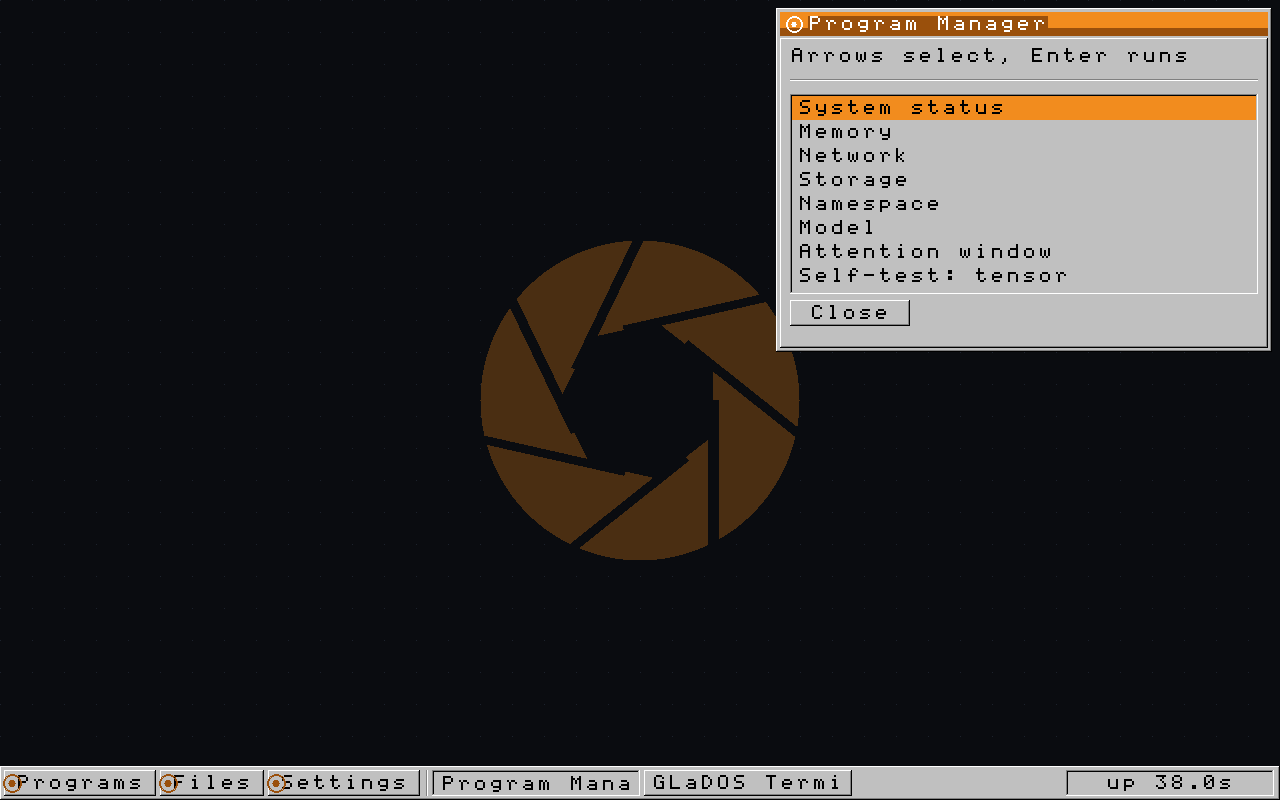
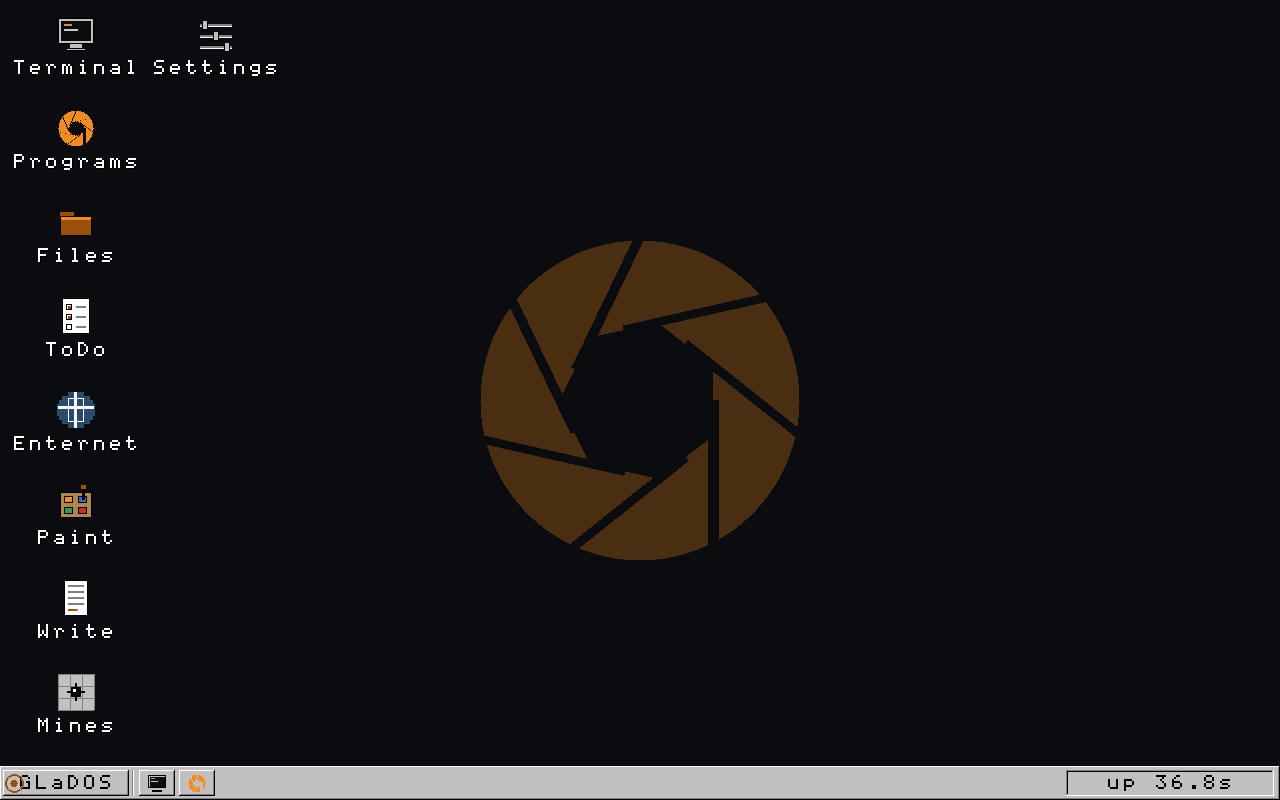
site: screenshots catch up with the desktop
The three captures on the front page and the gallery predate icons, the
Start button, caption buttons, the icon taskbar and the programs, so
they showed a machine that no longer exists. Retaken from the current
build, through the emulator's monitor as always:

  desktop.png        the boot state -- terminal, Program Manager, wall
                     icons, Start, pictogram task buttons
  apps.png (new)     Minesweeper, Write and Paintbrush in overlapping
                     windows, arranged by the window manager itself over
                     a serial port
  desktop-clean.png  everything minimised; the shell keeps answering
                     with no window at all

Captions updated to say what is now true, in the site's own register --
and with the em dashes that tried to sneak in via — escapes caught
before they landed, since "no em dashes" was the rule that built this
site's voice in the first place.

diff --git a/docs/screenshots/index.html b/docs/screenshots/index.html
@@ -48,8 +48,9 @@
 <div id="main">
 <h1>GLaDOS OS screenshots</h1>
 <p>Captured from the running system under QEMU, through the emulator's monitor and not with a camera pointed at a screen, so these are the framebuffer's exact contents at 1280x800.</p>
-<div class="shot"><img src="../img/desktop.png" alt="GLaDOS OS desktop showing a Windows 3.1 styled terminal window with the boot log, a Program Manager window, and a taskbar" width="1280" height="800" loading="lazy" decoding="async"><div class="cap"><b>Desktop with terminal and Program Manager.</b> The desktop as it comes up. The terminal is showing its own boot log, with Program Manager beside it and a taskbar along the bottom. Every pixel here was drawn by the kernel into a UEFI framebuffer; there is no graphics library underneath.</div></div>
-<div class="shot"><img src="../img/desktop-clean.png" alt="The GLaDOS desktop wallpaper showing the aperture mark drawn as vector geometry" width="1280" height="800" loading="lazy" decoding="async"><div class="cap"><b>Desktop wallpaper.</b> The same desktop with the terminal minimised. The mark on the wallpaper is computed as arcs and lines at boot, because the kernel has no image decoder and adding one to display a logo seemed like the wrong order to do things in.</div></div>
+<div class="shot"><img src="../img/desktop.png" alt="GLaDOS OS desktop showing a 98-styled terminal window with the boot log, desktop icons, a Program Manager window, and an icon taskbar with a Start button" width="1280" height="800" loading="lazy" decoding="async"><div class="cap"><b>Desktop with terminal and Program Manager.</b> The desktop as it comes up. The terminal is showing its own boot log, with Program Manager beside it, icons down the wall, and a taskbar carrying a Start button and one pictogram per window. Title bars ramp through Aperture's colours and carry minimise, maximise and close. Every pixel here was drawn by the kernel into a UEFI framebuffer; there is no graphics library underneath.</div></div>
+<div class="shot"><img src="../img/apps.png" alt="GLaDOS desktop with Minesweeper, a text editor and a paint program in overlapping windows" width="1280" height="800" loading="lazy" decoding="async"><div class="cap"><b>Paintbrush, Write and Minesweeper.</b> Three programs at once. Minesweeper plays the 3.1 rules with the mark for a face; Write is a windowed editor over the same content-addressed namespace the shell's <code>edit</code> uses; Paintbrush is behind it with five tools and the console's sixteen colours. Windows drag by their title bars, and everything also drives from the keyboard, which is how this screenshot arranged itself, headlessly, over a serial port.</div></div>
+<div class="shot"><img src="../img/desktop-clean.png" alt="The GLaDOS desktop wallpaper showing the aperture mark drawn as vector geometry" width="1280" height="800" loading="lazy" decoding="async"><div class="cap"><b>Desktop wallpaper.</b> Everything minimised to the bar. The mark on the wallpaper is computed as arcs and lines at boot, because the kernel has no image decoder and adding one to display a logo seemed like the wrong order to do things in. The shell keeps running with no window at all; typing still types at the prompt.</div></div>
 <div class="shot"><img src="../img/model.png" alt="GLaDOS running a language model in kernel space, answering a question about operating systems" width="1280" height="800" loading="lazy" decoding="async"><div class="cap"><b>The model answering.</b> The resident model answering <em>what is an operating system</em>. The forward pass is running in the same address space as the code that drew the window it is printing into.</div></div>
 <div class="shot"><img src="../img/mouse.png" alt="The GLaDOS desktop with a mouse cursor and the Program Manager system status list open" width="1280" height="800" loading="lazy" decoding="async"><div class="cap"><b>A pointer, and the system status menu.</b> PS/2 mouse support, with the cursor drawn and undrawn by saving and restoring the pixels underneath it. The second button opens the menu under the pointer. Behind it the boot log records the model's shape: 576-dimensional, 30 layers, nine query heads to three key/value heads, and 134,515,008 parameters in 132,402 KiB of int8 weights.</div></div>
 <div class="shot"><img src="../img/enternet.png" alt="A small web browser window in GLaDOS displaying example.com, fetched over the kernel&#x27;s own TLS 1.3 connection" width="1280" height="800" loading="lazy" decoding="async"><div class="cap"><b>Enternet, fetching a page.</b> Enternet, the browser. It has fetched <code>example.com</code> over a TLS 1.3 connection this kernel negotiated itself, parsed the HTML and the CSS, and laid the result out in a window. The status line counts what it found: three blocks and one link.</div></div>

diff --git a/docs/index.html b/docs/index.html
@@ -51,8 +51,9 @@
 <p>That arrangement deletes most of the machinery an AI agent usually needs. There is no userspace to marshal arguments into, no wire format, no dispatcher and no process boundary to cross. When the model decides to run <code>ls</code>, the kernel calls <code>ls</code>, and the call costs what any other function call costs.</p>
 <p>The name comes from <em>Portal</em>, and so does the look: amber on black, a boot screen drawn as vector geometry, Windows 3.1 chrome, and a certain institutional cheerfulness on the subject of hazards. What is underneath the paint is ordinary systems work. The TCP/IP stack, the TLS 1.3 client, the NVMe and xHCI drivers, the window manager and the inference code were all written for this project, which comes to 89 files of Rust and about 36,000 lines.</p>
 <ul><li><a href="download/">Download the ISO</a>: Bootable UEFI images with the model baked in. 33 MB to 575 MB.</li><li><a href="wiki/">Read the wiki</a>: Every subsystem, how it works, and what it cost to find out.</li><li><a href="screenshots/">See it running</a>: The desktop, the shell, and the model answering from ring 0.</li><li><a href="archive/">Browse the archive</a>: Mirror-style file index of images, sources and checksums.</li><li><a href="https://github.com/IlumCI/GLaDOS">Source on GitHub</a>: 89 files of Rust. All rights reserved, published to be read.</li></ul>
-<div class="shot"><img src="img/desktop.png" alt="GLaDOS OS desktop showing a Windows 3.1 styled terminal window with the boot log, a Program Manager window, and a taskbar" width="1280" height="800" loading="lazy" decoding="async"><div class="cap"><b>Desktop with terminal and Program Manager.</b> The desktop as it comes up, with the terminal showing its own boot log, Program Manager beside it and a taskbar along the bottom. Every pixel here was drawn by the kernel into a UEFI framebuffer, with no graphics library underneath.</div></div>
-<div class="shot"><img src="img/desktop-clean.png" alt="The GLaDOS desktop wallpaper showing the aperture mark drawn as vector geometry" width="1280" height="800" loading="lazy" decoding="async"><div class="cap"><b>Desktop wallpaper.</b> The same desktop with the terminal minimised. The mark is computed as arcs and lines at boot, since the kernel has no image decoder and writing one in order to display a logo seemed like the wrong order to do things in.</div></div>
+<div class="shot"><img src="img/desktop.png" alt="GLaDOS OS desktop showing a 98-styled terminal window with the boot log, desktop icons, a Program Manager window, and an icon taskbar with a Start button" width="1280" height="800" loading="lazy" decoding="async"><div class="cap"><b>Desktop with terminal and Program Manager.</b> The desktop as it comes up: the terminal showing its own boot log, Program Manager beside it, icons down the wall, and a taskbar with a Start button and one pictogram per window. The look is 98 furniture on 3.1 construction in Aperture colours, and every pixel was drawn by the kernel into a UEFI framebuffer with no graphics library underneath.</div></div>
+<div class="shot"><img src="img/apps.png" alt="GLaDOS desktop with Minesweeper, a text editor and a paint program in overlapping windows" width="1280" height="800" loading="lazy" decoding="async"><div class="cap"><b>Paintbrush, Write and Minesweeper.</b> Three programs at once: Minesweeper with its counters and the mark for a face, Write holding a document from the content-addressed namespace, Paintbrush behind it. Windows drag by their title bars, carry minimise, maximise and close buttons, and everything here can also be driven entirely from the keyboard, which is how this screenshot arranged itself.</div></div>
+<div class="shot"><img src="img/desktop-clean.png" alt="The GLaDOS desktop wallpaper showing the aperture mark drawn as vector geometry" width="1280" height="800" loading="lazy" decoding="async"><div class="cap"><b>Desktop wallpaper.</b> Everything minimised to the bar. The mark is computed as arcs and lines at boot, since the kernel has no image decoder and writing one in order to display a logo seemed like the wrong order to do things in. The shell keeps running with no window at all.</div></div>
 <div class="shot"><img src="img/model.png" alt="GLaDOS running a language model in kernel space, answering a question about operating systems" width="1280" height="800" loading="lazy" decoding="async"><div class="cap"><b>The model answering.</b> The resident model answering <em>what is an operating system</em>. The forward pass is running in the same address space as the code that drew the window it is printing into.</div></div>
 <h2 id="what-works">What works</h2>
 <p>This is a research kernel, so a feature list is only useful with the gaps marked. Both halves are below.</p>

diff --git a/tools/mksite.py b/tools/mksite.py
@@ -132,20 +132,32 @@ page(
         ]),
         ("shots", [
             ("desktop.png", "Desktop with terminal and Program Manager",
-             "GLaDOS OS desktop showing a Windows 3.1 styled terminal window with "
-             "the boot log, a Program Manager window, and a taskbar",
-             "The desktop as it comes up, with the terminal showing its own boot "
-             "log, Program Manager beside it and a taskbar along the bottom. Every "
-             "pixel here was drawn by the kernel into a UEFI framebuffer, with no "
-             "graphics library underneath.",
+             "GLaDOS OS desktop showing a 98-styled terminal window with the boot "
+             "log, desktop icons, a Program Manager window, and an icon taskbar "
+             "with a Start button",
+             "The desktop as it comes up: the terminal showing its own boot log, "
+             "Program Manager beside it, icons down the wall, and a taskbar with a "
+             "Start button and one pictogram per window. The look is 98 furniture "
+             "on 3.1 construction in Aperture colours, and every pixel was drawn "
+             "by the kernel into a UEFI framebuffer with no graphics library "
+             "underneath.",
              True),
+            ("apps.png", "Paintbrush, Write and Minesweeper",
+             "GLaDOS desktop with Minesweeper, a text editor and a paint program "
+             "in overlapping windows",
+             "Three programs at once: Minesweeper with its counters and the mark "
+             "for a face, Write holding a document from the content-addressed "
+             "namespace, Paintbrush behind it. Windows drag by their title bars, "
+             "carry minimise, maximise and close buttons, and everything here can "
+             "also be driven entirely from the keyboard, which is how this "
+             "screenshot arranged itself.", False),
             ("desktop-clean.png", "Desktop wallpaper",
              "The GLaDOS desktop wallpaper showing the aperture mark drawn as "
              "vector geometry",
-             "The same desktop with the terminal minimised. The mark is computed as "
-             "arcs and lines at boot, since the kernel has no image decoder and "
-             "writing one in order to display a logo seemed like the wrong order to "
-             "do things in.", False),
+             "Everything minimised to the bar. The mark is computed as arcs and "
+             "lines at boot, since the kernel has no image decoder and writing one "
+             "in order to display a logo seemed like the wrong order to do things "
+             "in. The shell keeps running with no window at all.", False),
             ("model.png", "The model answering",
              "GLaDOS running a language model in kernel space, answering a question "
              "about operating systems",
@@ -2387,20 +2399,34 @@ page(
           "framebuffer's exact contents at 1280x800."),
         ("shots", [
             ("desktop.png", "Desktop with terminal and Program Manager",
-             "GLaDOS OS desktop showing a Windows 3.1 styled terminal window with "
-             "the boot log, a Program Manager window, and a taskbar",
-             "The desktop as it comes up. The terminal is showing its own boot log, "
-             "with Program Manager beside it and a taskbar along the bottom. Every "
-             "pixel here was drawn by the kernel into a UEFI framebuffer; there is "
-             "no graphics library underneath.",
+             "GLaDOS OS desktop showing a 98-styled terminal window with the boot "
+             "log, desktop icons, a Program Manager window, and an icon taskbar "
+             "with a Start button",
+             "The desktop as it comes up. The terminal is showing its own boot "
+             "log, with Program Manager beside it, icons down the wall, and a "
+             "taskbar carrying a Start button and one pictogram per window. Title "
+             "bars ramp through Aperture's colours and carry minimise, maximise "
+             "and close. Every pixel here was drawn by the kernel into a UEFI "
+             "framebuffer; there is no graphics library underneath.",
              True),
+            ("apps.png", "Paintbrush, Write and Minesweeper",
+             "GLaDOS desktop with Minesweeper, a text editor and a paint program "
+             "in overlapping windows",
+             "Three programs at once. Minesweeper plays the 3.1 rules with the "
+             "mark for a face; Write is a windowed editor over the same "
+             "content-addressed namespace the shell's <code>edit</code> uses; "
+             "Paintbrush is behind it with five tools and the console's sixteen "
+             "colours. Windows drag by their title bars, and everything also "
+             "drives from the keyboard, which is how this screenshot "
+             "arranged itself, headlessly, over a serial port.", False),
             ("desktop-clean.png", "Desktop wallpaper",
              "The GLaDOS desktop wallpaper showing the aperture mark drawn as "
              "vector geometry",
-             "The same desktop with the terminal minimised. The mark on the "
+             "Everything minimised to the bar. The mark on the "
              "wallpaper is computed as arcs and lines at boot, because the kernel "
              "has no image decoder and adding one to display a logo seemed like the "
-             "wrong order to do things in.", False),
+             "wrong order to do things in. The shell keeps running with no window "
+             "at all; typing still types at the prompt.", False),
             ("model.png", "The model answering",
              "GLaDOS running a language model in kernel space, answering a question "
              "about operating systems",
